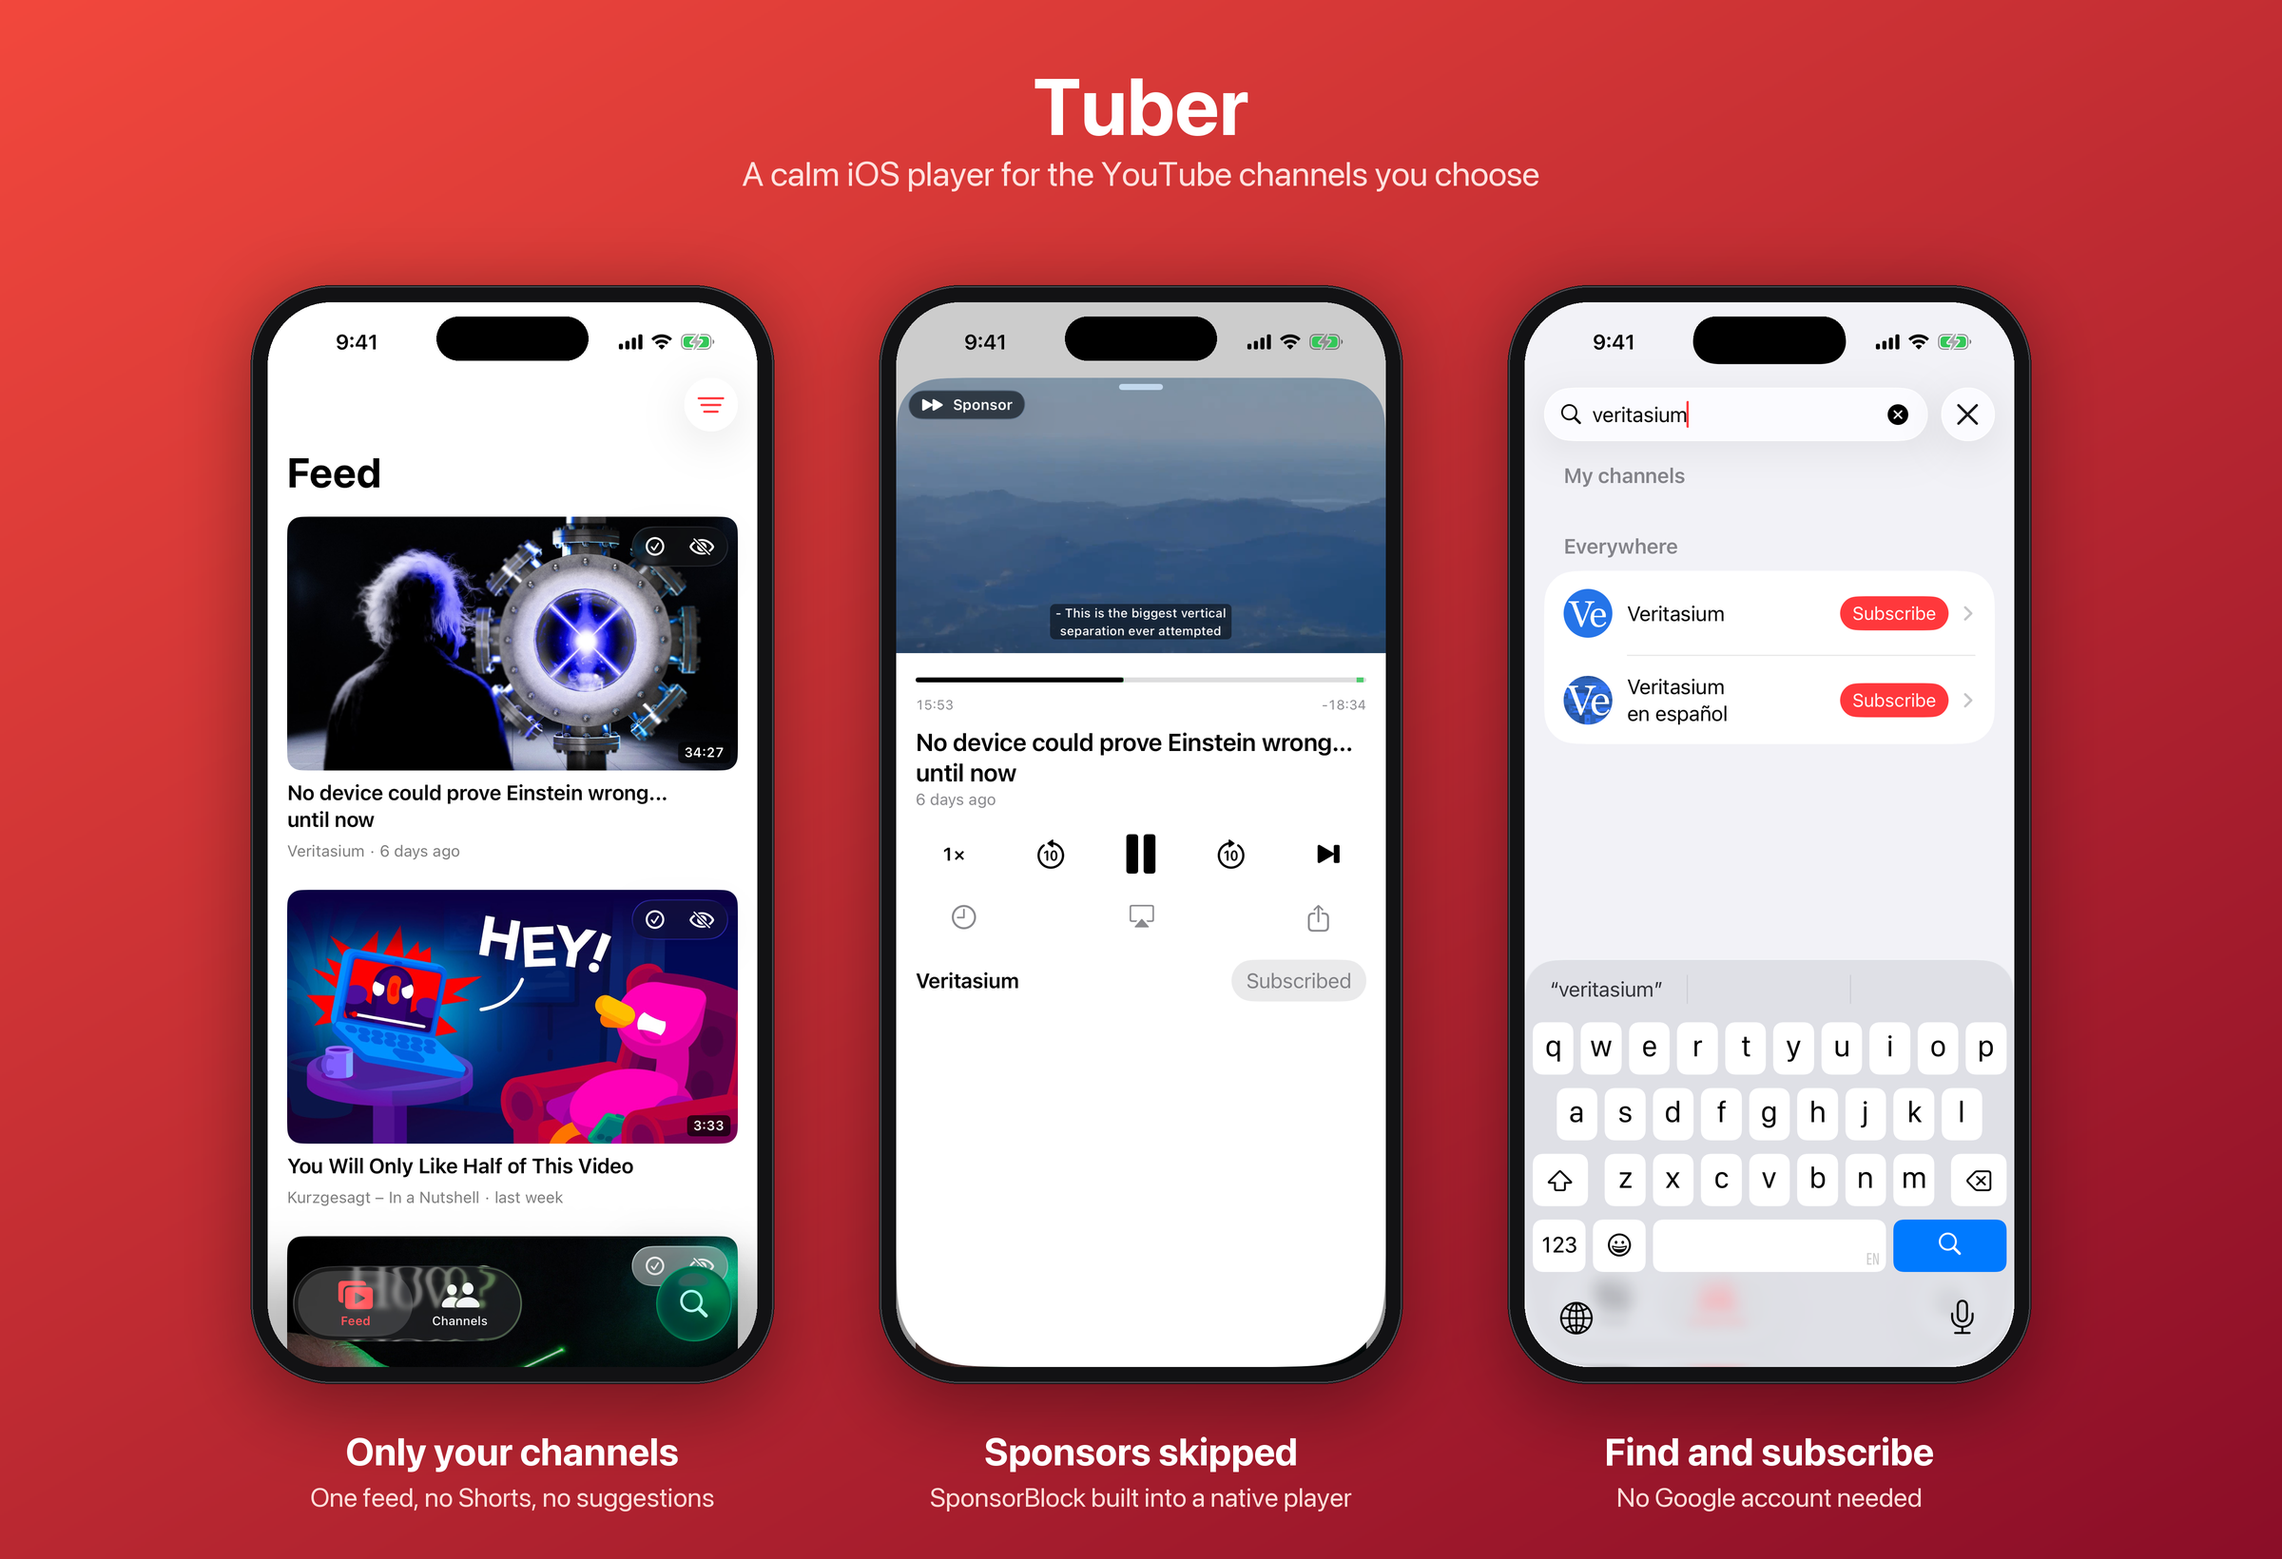
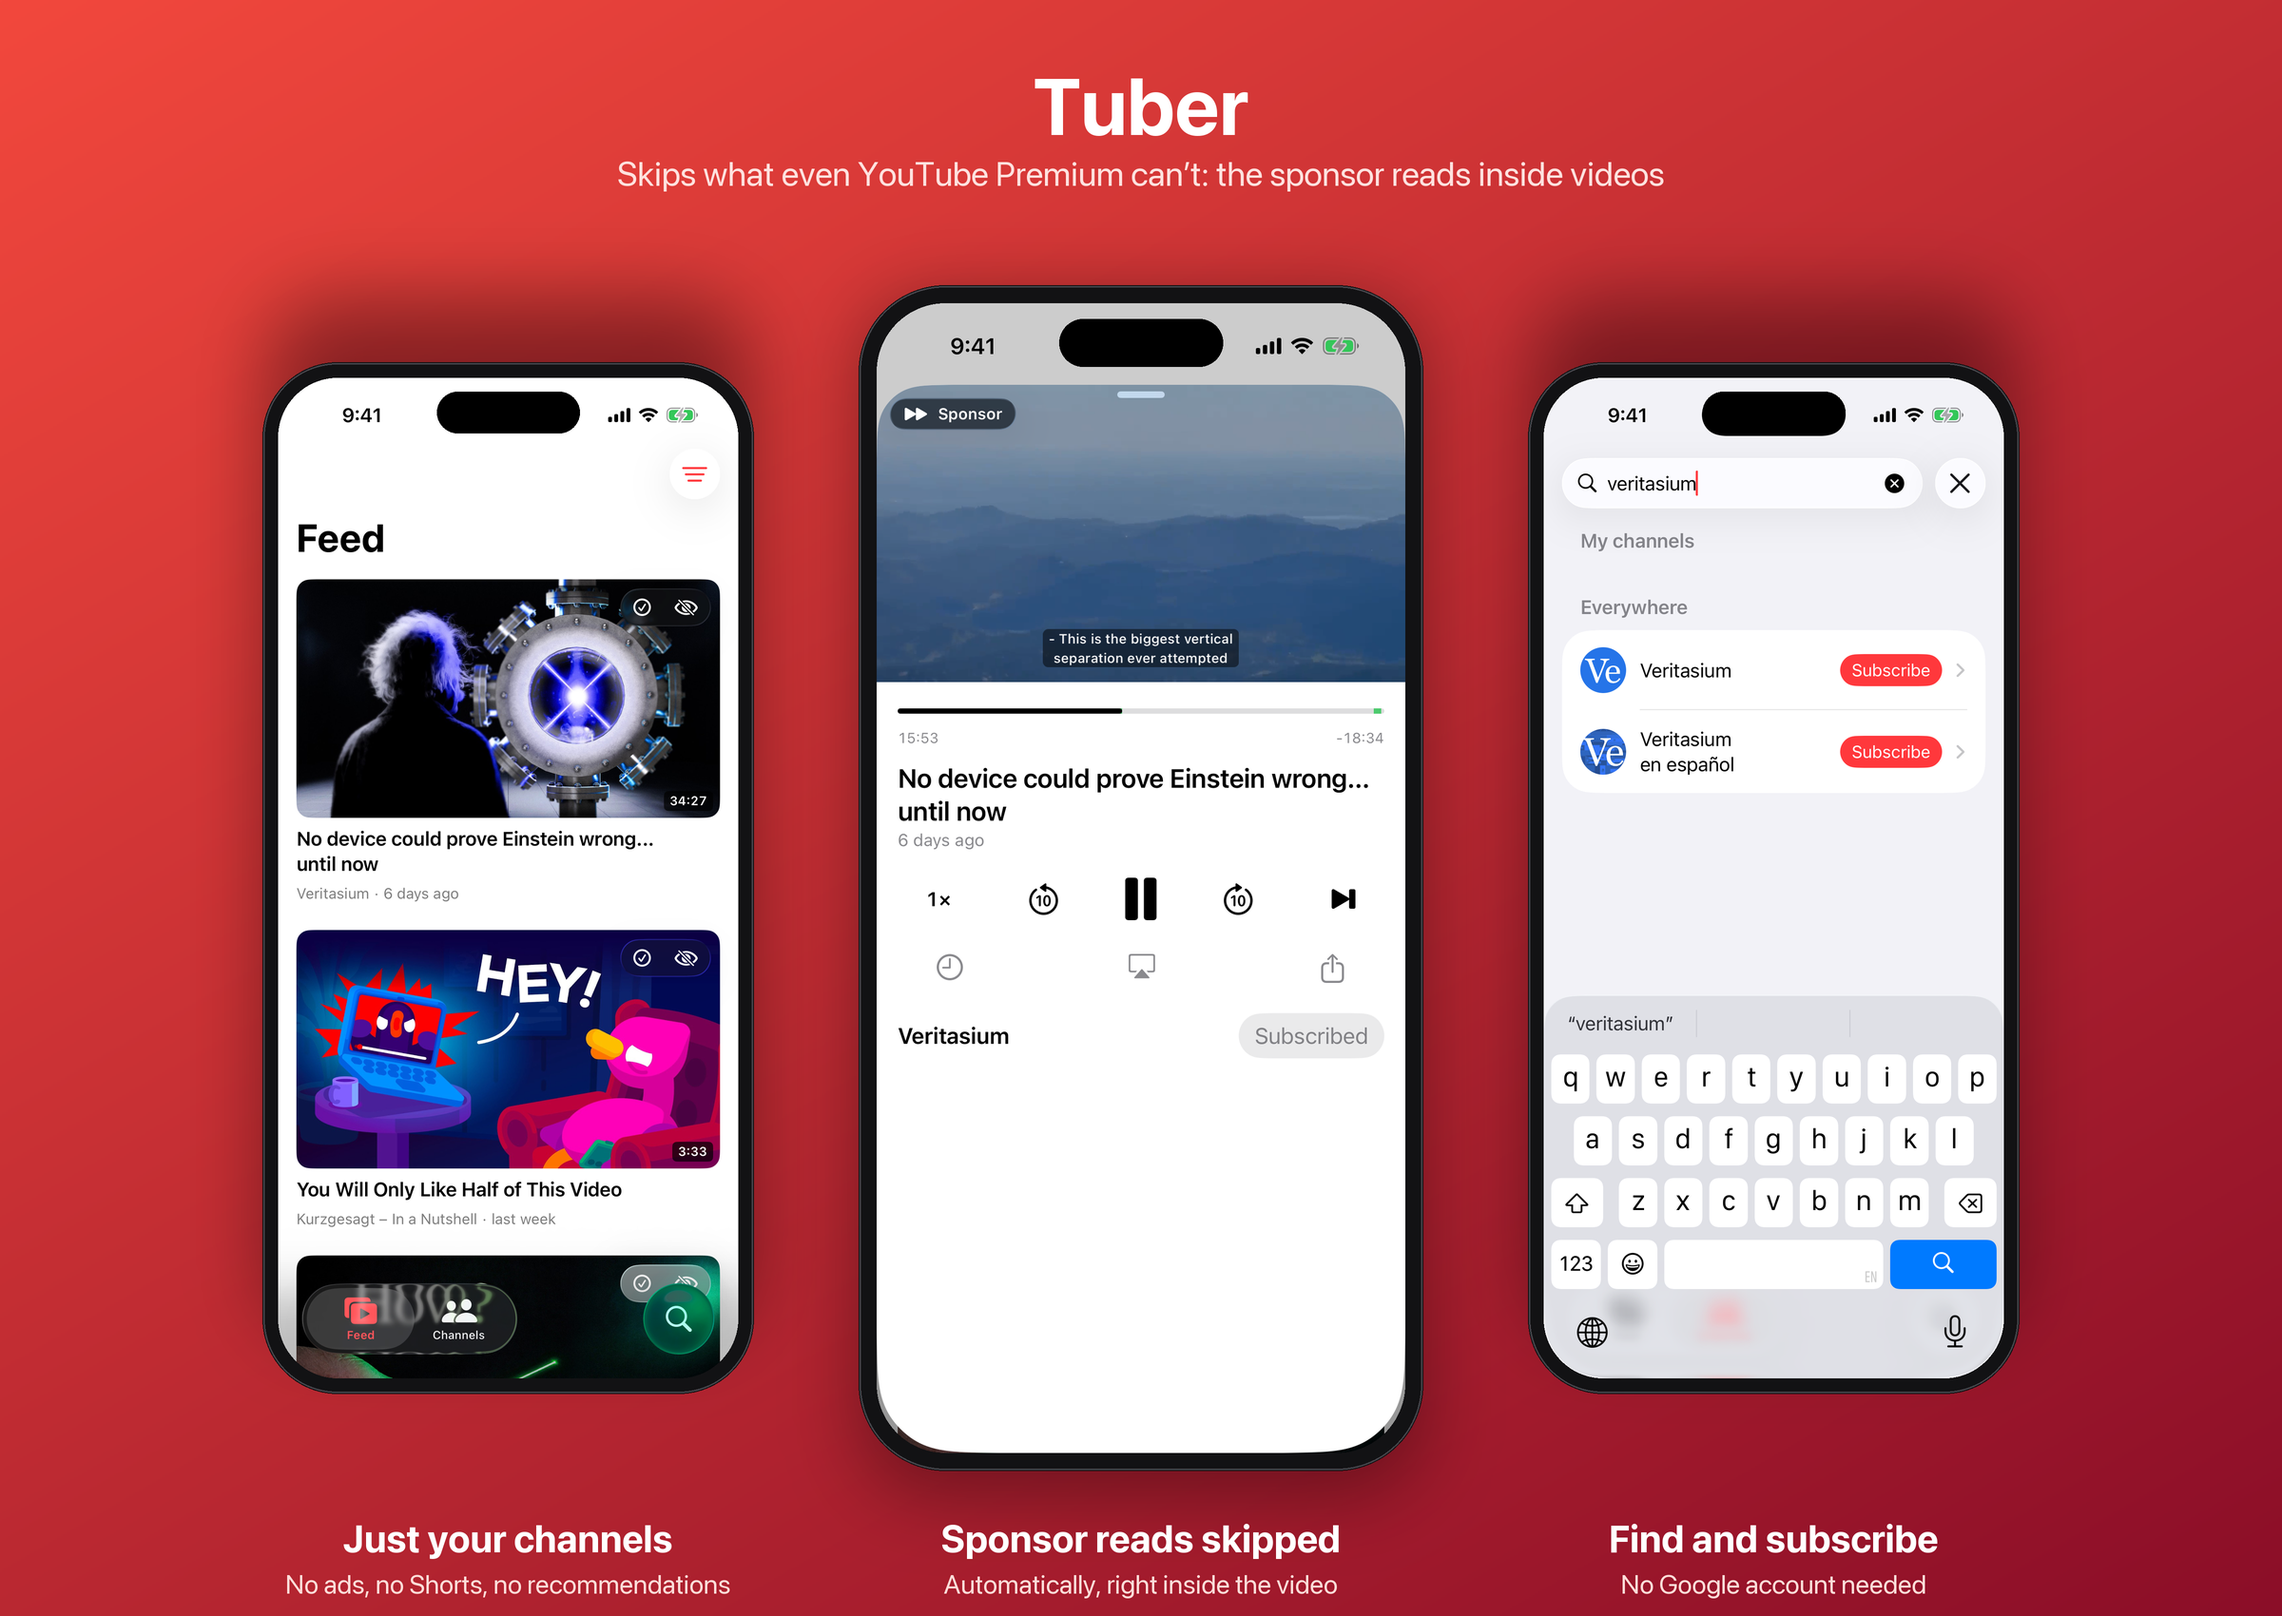
Lead README with sponsor skipping

diff --git a/README.md b/README.md
@@ -5,8 +5,8 @@
 <h1 align="center">Tuber</h1>
 
 <p align="center">
-  A calm, native iOS player for the YouTube channels <i>you</i> choose.<br>
-  No recommendations rabbit hole. Sponsor segments skipped. Picks up where you left off.
+  <b>Skips what even YouTube Premium can’t: the sponsor reads inside videos.</b><br>
+  No ads. No Shorts. No recommendations. Just the channels <i>you</i> choose, in a native iOS player.
 </p>
 
 <p align="center">
@@ -25,14 +25,19 @@
 
 ## Why
 
-The official app is built to keep you scrolling. Tuber is built for watching: a feed of only the channels you subscribed to, no Shorts, no suggestions, and sponsor reads skipped automatically.
+Two kinds of interruptions get between you and a video:
+
+1. **Ads** that the platform plays before and during a video. Tuber plays the video stream directly, so there are none.
+2. **Sponsor reads** that creators record into the video itself: "This video is sponsored by...". Even YouTube Premium makes you sit through them. Tuber skips them automatically using crowd-sourced timestamps from [SponsorBlock](https://sponsor.ajay.app).
+
+And the official app is built to keep you scrolling. Tuber is built for watching: one feed of only the channels you subscribed to, without Shorts or suggestions.
 
 ## Features
 
+- **Sponsor reads skipped automatically.** Sponsor segments, self-promotion and "like and subscribe" reminders are jumped over and marked green on the timeline, with a small "Sponsor" badge when it happens. Pick the categories in Settings.
+- **No ads.** The video stream plays directly in a native player.
 - **Your channels only.** Subscribe without a Google account. Search channels and videos, or share a link from any app into Tuber.
-- **One feed** of all subscriptions, newest first. Infinite scroll loads older videos without the list jumping.
-- **No Shorts**, anywhere.
-- **SponsorBlock built in.** Sponsor reads, self-promotion and "like and subscribe" reminders are skipped and marked on the timeline. Pick the categories in Settings.
+- **One feed** of all subscriptions, newest first, **no Shorts** anywhere. Infinite scroll loads older videos without the list jumping.
 - **Native player** on AVKit: background audio, lock screen and Control Center controls, Picture in Picture, AirPlay.
 - **YouTube-style gestures:** double tap left or right to seek 5 seconds, press and hold for 2x, speed menu from 0.25x to 2x.
 - **Remembers everything:** playback position per video, watched state, Watch later, hidden videos, "mark all as watched" per channel, channels hidden from the feed.
